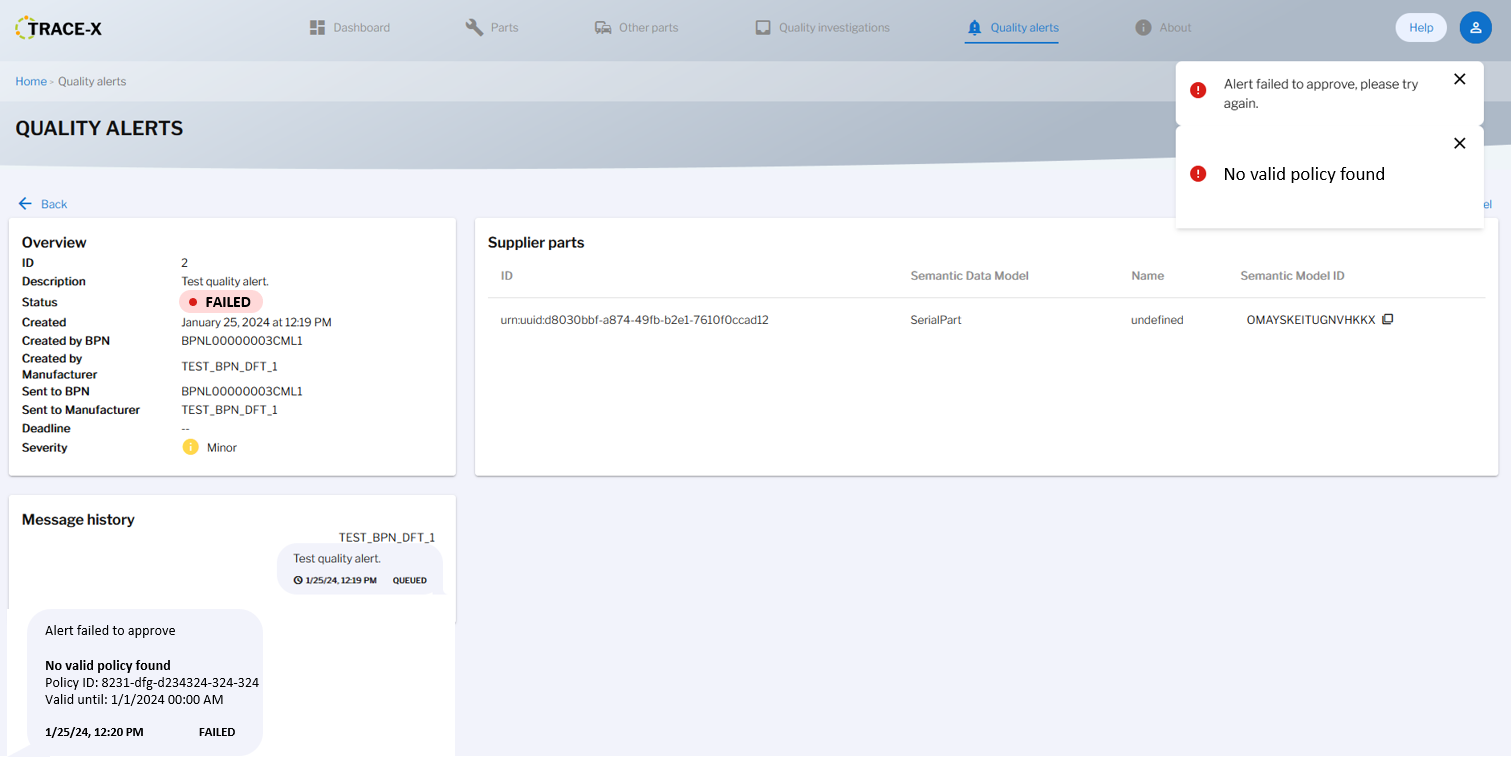
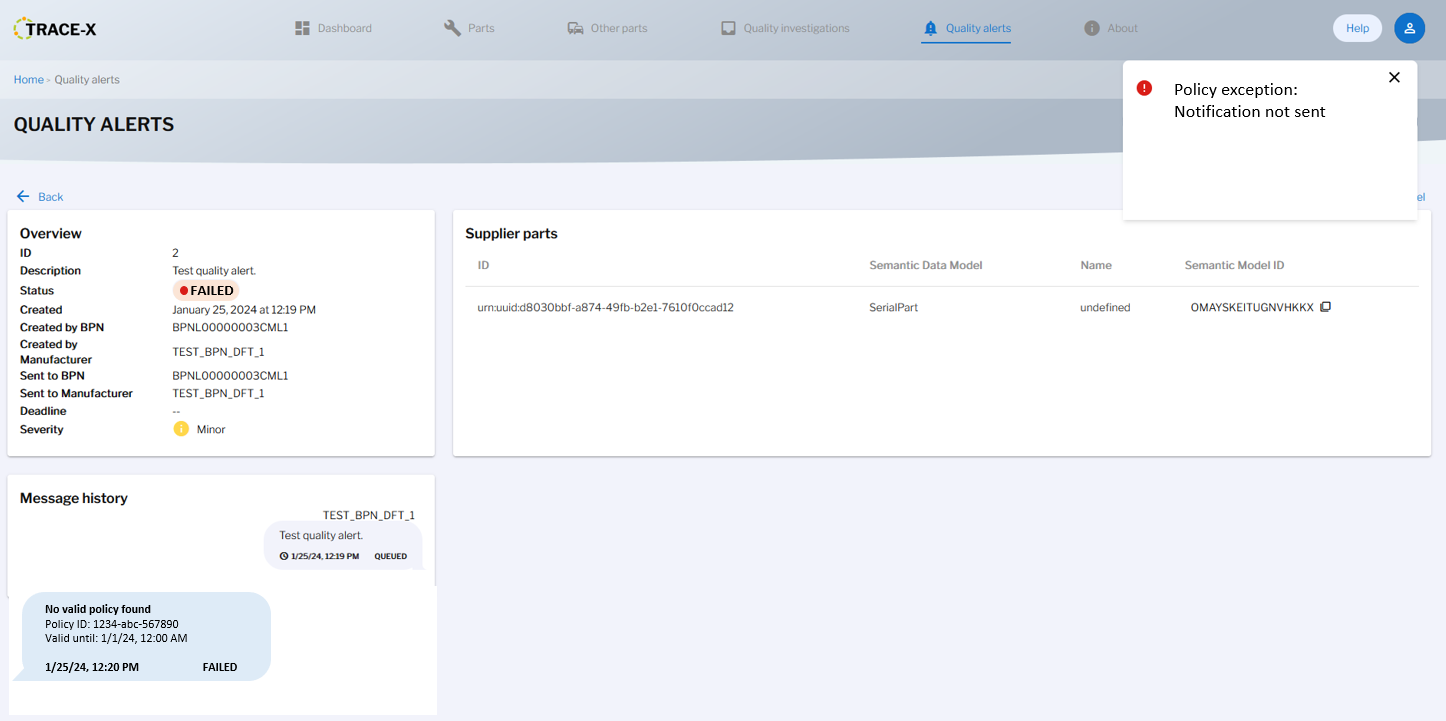
chore(concept): #521 add more accurate information, assumptions and diagram

diff --git a/docs/concept/#521-revoked-notification-handling/#521-revoked-notification-handling.md b/docs/concept/#521-revoked-notification-handling/#521-revoked-notification-handling.md
@@ -22,18 +22,18 @@
 
 # Overview
 
-After a notification is created and approved, a negotiation in the EDC is initiated.
-Once the EDC approves access to the BPN, Trace-X fetches their usage policy.
+After a notification is created and approved, relevant policies must be verified before it can be sent.
 There are three possibilities:
 1. The policy is valid (validUntil >= current DateTime) and the notification is permitted to be sent.
 2. The policy is valid (validUntil >= current DateTime) but the notification is **not** permitted to be sent.
 3. The policy is **not** valid (validUntil < current DateTime) and the notification is **not** permitted to be sent (policy details are not relevant in this case).
 
+Policies are stored in the IRS. The IRS provides an API to fetch and verify policies.
+
 # Summary
 
-Currently, there is only one error message and no differentiation between case 2 and 3.
-When the notification is not permitted, the user is only notified about the failure but not about the reason.
-This must now be implemented so that the user knows about the reason behind the rejection and can act accordingly.
+When the notification is not sent because of a permission issue or an invalid policy, the user must be notified properly.
+The status of the notification must be updated accordingly.
 
 # Problem Statement
 
@@ -43,10 +43,9 @@ This must now be implemented so that the user knows about the reason behind the 
   - If policy is not valid -> UsagePolicyExpiredException
   - If policy is valid but notification not permitted -> UsagePolicyPermissionException
 - New quality investigation & alert status: "Failed"
-  - Notification set to this status
+  - Notification set to this status, when it could not be sent due to the policy exceptions
+- Pop-up informing the user of the exception
 - Detailed status information stored in the message history of the notification
-- Pop-up informing the user
-- Detailed information about the reason for the rejection must be shown in the detail view of the notification
 - User must be able to resend the notification
 
 # NFR
@@ -55,22 +54,55 @@ This must now be implemented so that the user knows about the reason behind the 
 
 # Assumptions
 
+- The message history can show the current notification status persistently and accurately (https://github.com/eclipse-tractusx/traceability-foss/issues/423)
+- IRS library response for verification has enough details to show the user
+  - If not, Trace-X might have to add additional information to the thrown exceptions
+
 # Concept
 
 ### Backend
 
-Instead of only having one UsagePolicyException, there must be two different exceptions.
+Instead of only having one UsagePolicyException, there must be two different exceptions:
+- UsagePolicyPermissionException (thrown when permission validation fails; contains information from the IRS policy checker response)
+- UsagePolicyExpiredException (thrown when policy validUntil DateTime < current DateTime)
 
-UsagePolicyException must be renamed to *UsagePolicyPermissionException* and a new *UsagePolicyExpiredException* must be created.
-UsagePolicyPermissionException is thrown whenever the notification is not compliant with the permissions of the policy.
-UsagePolicyExpiredException is thrown whenever
-policy.validUntil < currentTime
+When either of these is thrown, the notification will be set to the new status "Failed".
+A message is stored in the message history, containing information about the exception.
 
-A new notification status "Failed" must be implemented.
+```mermaid
+sequenceDiagram
+    participant TraceX
+    participant IRSLib
+    participant IRSPolicyStore
+    TraceX->>TraceX: Create notification
+    TraceX->>IRSLib: Get policy
+    activate IRSLib
+    IRSLib->>IRSPolicyStore: Get policy
+    activate IRSPolicyStore
+    IRSPolicyStore-->>IRSLib: Policy A(id,validUntil,permissions,...)
+    deactivate IRSPolicyStore
+    IRSLib-->>TraceX: Policy A (id,validUntil,permissions,...)
+    deactivate IRSLib
+    TraceX->>IRSLib: Verify notification with policy A
+    activate IRSLib
+    alt Success
+        IRSLib-->>TraceX: Success
+        TraceX->>TraceX: Send notification
+    else Exception
+        alt Notification rejected
+            IRSLib-->>TraceX: UsagePolicyPermissionException
+        else policy.validUntil<currentTime
+            IRSLib-->>TraceX: UsagePolicyExpiredException
+        end
+        deactivate IRSLib
+        TraceX->>TraceX: Notification status = Failed
+        TraceX->>TraceX: Create error message
+    end
+```
 
 ### Frontend
 
-After creating and approving the notification and one of those errors is thrown:
+After creating and approving the notification and one of the exceptions is thrown:
 1. A pop-up must be shown to the user
 2. The notification status must be changed to "Failed"
 3. A new message must be created and shown in the message history including the error description
@@ -88,12 +120,6 @@ UsagePolicyExpiredException:
 |              |      |               |
 
 # References
-
-# LOP
-
-- How does Trace-X check policies/permissions/constraints currently?
-- When is the UsagePolicyException thrown?
-- How does it look like when this exception is thrown right now?
 
 # Additional Details
 
